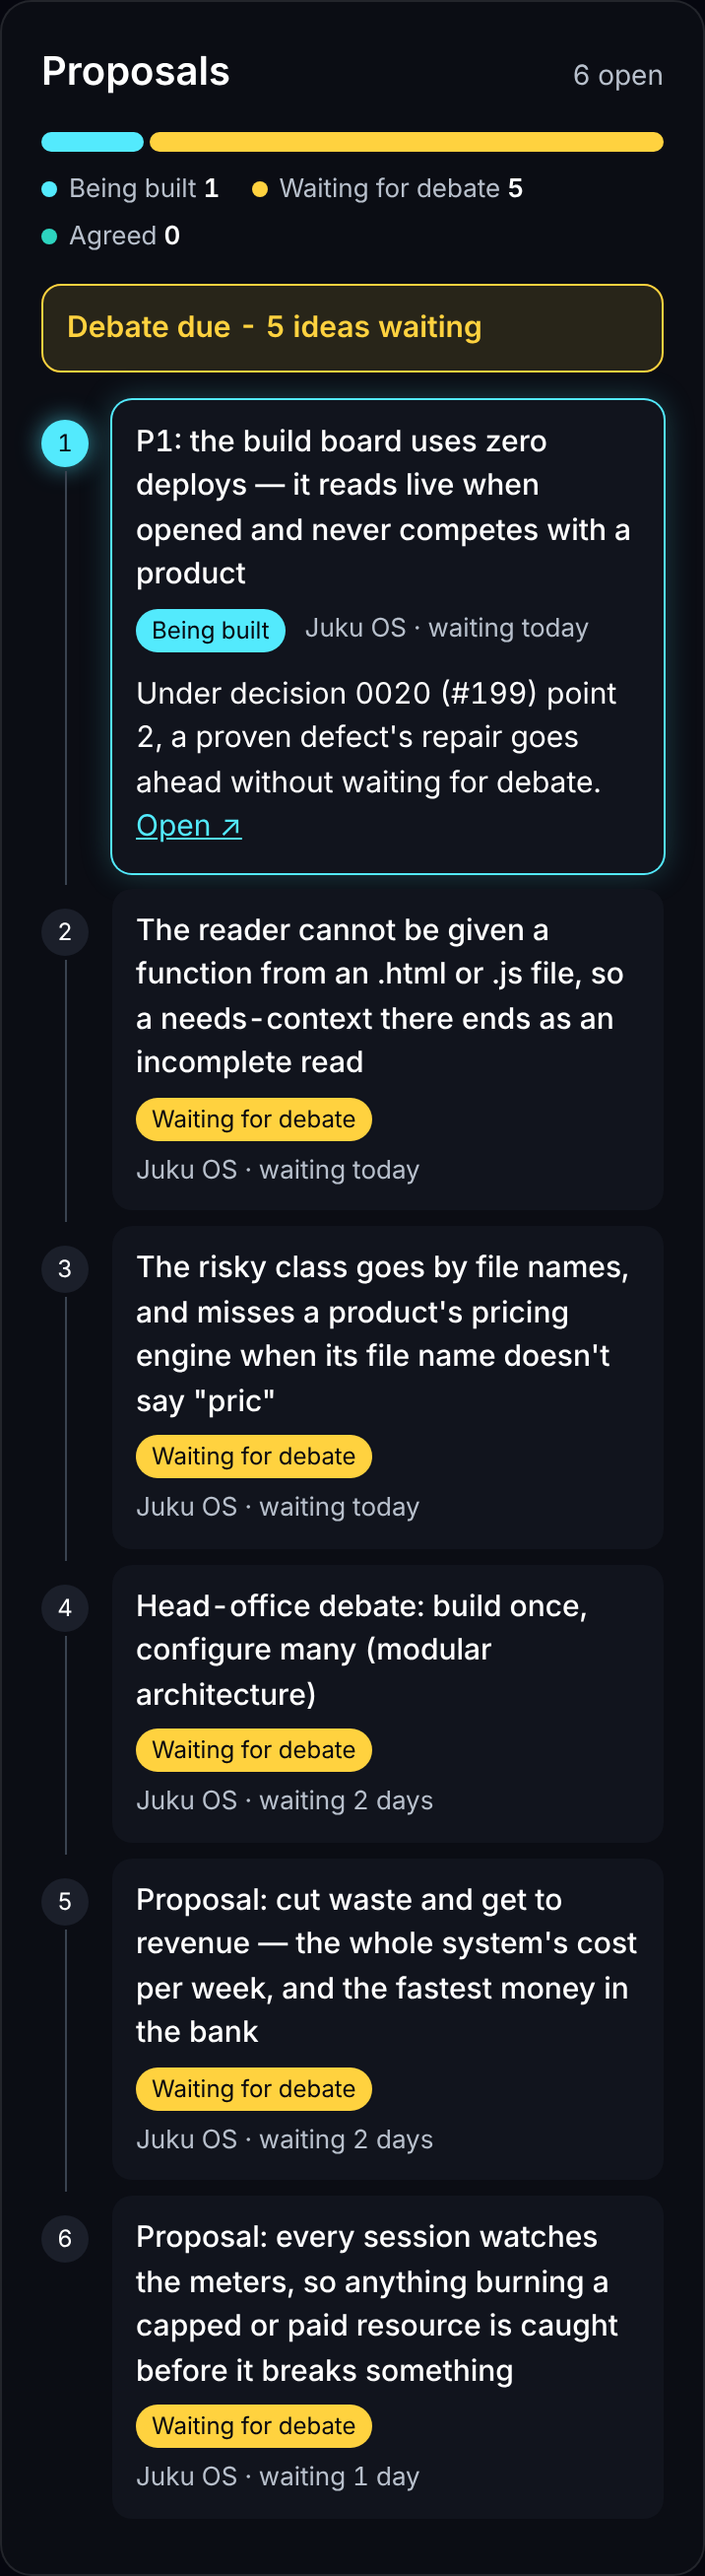
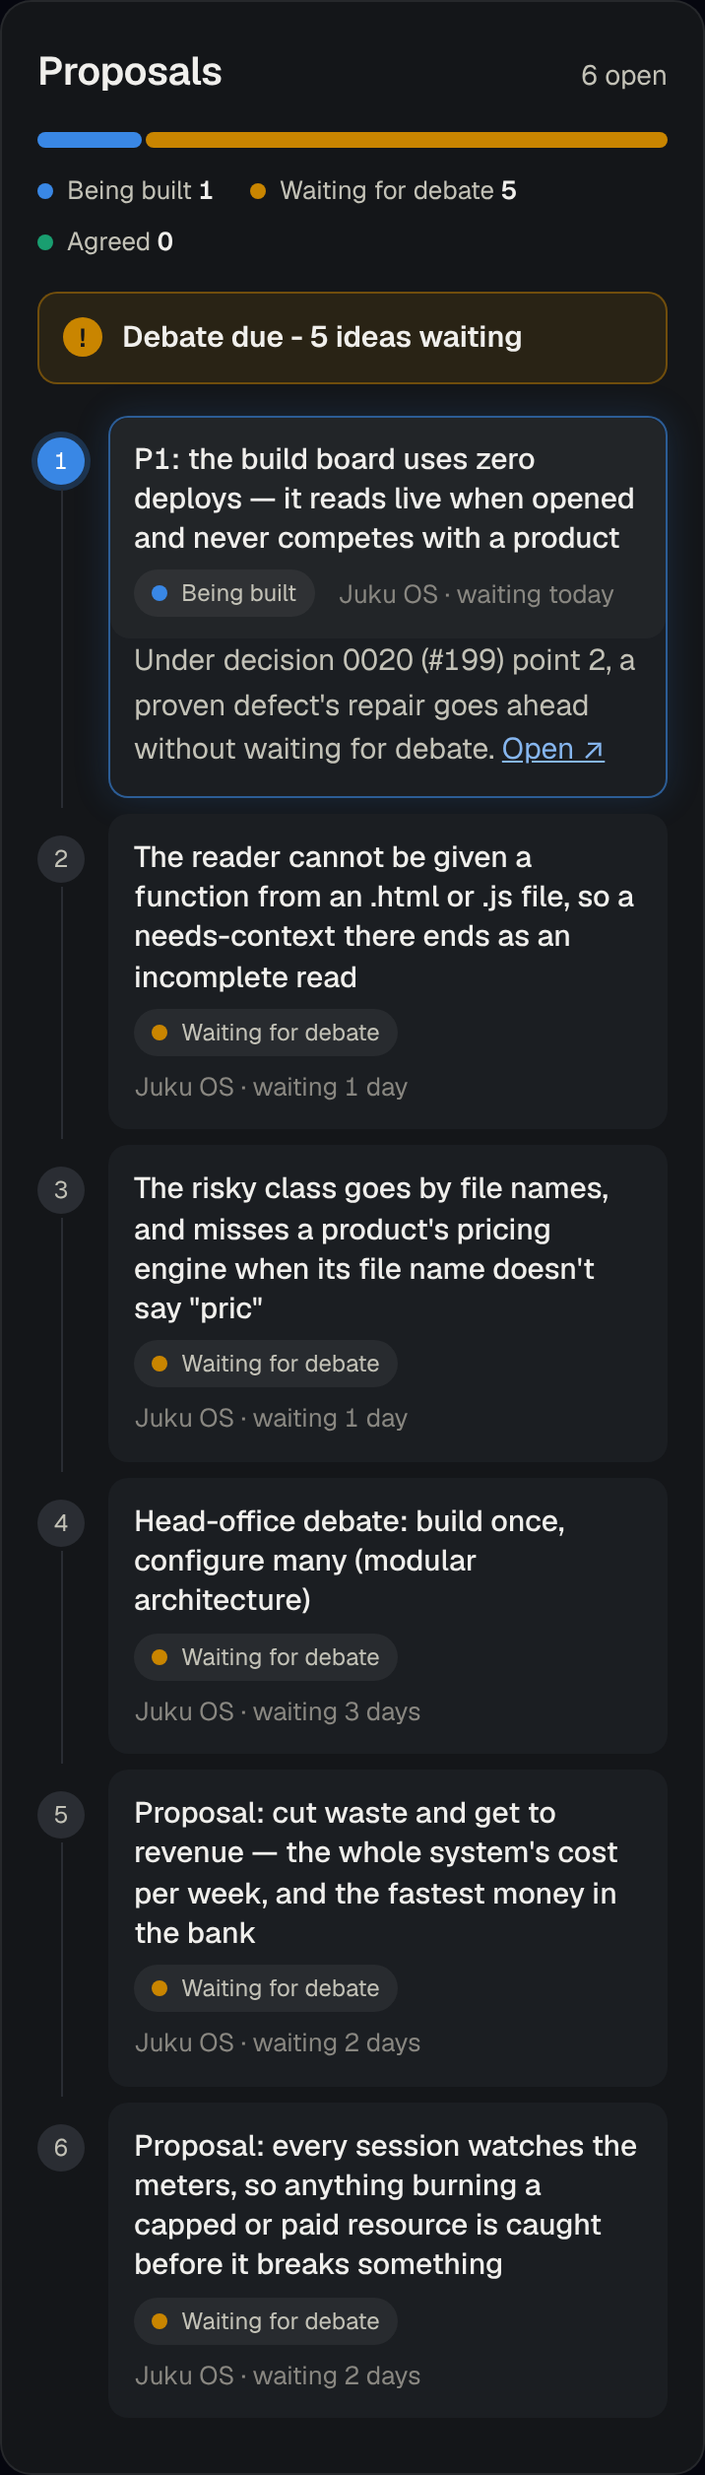
The proposals card in one dark scheme, adaptive, on his second look (#222)
His look, 16 October 2026: the layout kept, the colours started fresh. Neutral near-black surfaces and ink, the stages in one validated dark set (blue being built, amber waiting, teal agreed), blue the one high-contrast accent, a stage's colour on its dot and bar alone; on a wide screen a row's stage and age share its title's line. 6.3 KB with its styles. The library picture re-rendered at phone width, and the spec page says the new scheme.

Claude-Session: https://claude.ai/code/session_01FNSZakCVVhAZbUCDKCod5B

diff --git a/board/build.py b/board/build.py
@@ -383,35 +383,53 @@ def rulebook_row(rb):
 
 # THE PROPOSALS CARD (his approval, 15 October 2026, #222: Option D). One card above the
 # project pages: every open `proposal` issue here, and every product's `proposed` item, in
-# one queue (decision 0020), on the same live read. Pure HTML and CSS, cyan, yellow and teal
-# alone, under 10 KB; it replaces decision 0012's folded list of suggested ideas.
+# one queue (decision 0020), on the same live read. Pure HTML and CSS, under 10 KB; it replaces decision 0012's folded list of suggested ideas.
 ISSUE_LINK = re.compile(r"^https://github\.com/Adonis80/how-we-build/issues/[1-9][0-9]*$")
 STAGES = (("b", "Being built"), ("w", "Waiting for debate"), ("a", "Agreed"))
 # An open pull request that says it builds, closes, fixes, resolves or implements #N; one that only cites it does not.
 BUILDS = re.compile(r"\b(?:builds|closes|fixes|resolves|implements)\s+\[?#([1-9][0-9]*)\b", re.I)
 SHOWN = 6
 DUE_COUNT, DUE_DAYS = 3, 7                              # decision 0020's trigger (trial thresholds)
-PQ_CSS = (".pq{--b:#53eafd;--w:#ffd23f;--a:#2dd4bf;background:#0b0d14;border:1px solid rgba(255,255,255,.1);"
-          "border-radius:16px;padding:20px;margin:0 0 16px;color:#fff}.pq-h{display:flex;justify-content:space-between;"
-          "align-items:baseline}.pq h2{margin:0;font-size:20px;font-weight:600}.pq-c{color:#b8c0cc;font-size:14px}"
-          ".pq-bar{display:flex;gap:3px;height:10px;margin:16px 0 10px}.pq-bar i{border-radius:5px}.pq-bar .e{flex:1;"
-          "background:#3a4350}.pq .b{--s:var(--b)}.pq .w{--s:var(--w)}.pq .a{--s:var(--a)}.pq-bar i,.pq-k li::before{background:var(--s)}"
-          ".pq-k{display:flex;flex-wrap:wrap;gap:4px 16px;list-style:none;margin:0;padding:0;font-size:13px;color:#b8c0cc}"
-          ".pq-k li::before{content:\"\";display:inline-block;width:8px;height:8px;border-radius:50%;margin-right:6px}"
-          ".pq-k b{color:#fff;font-weight:600}.pq-due{margin:14px 0 0;border-radius:10px;background:rgba(255,210,63,.12);"
-          "border:1px solid var(--w)}.pq-due summary{padding:10px 12px;color:var(--w);font-weight:600}.pq-due p{margin:0;"
-          "padding:0 12px 12px;color:#fff}.pq-l{list-style:none;margin:14px 0 0;padding:0;counter-reset:n var(--n0,0)}"
-          ".pq-r{position:relative;padding-left:36px;counter-increment:n}.pq-r::before{content:counter(n);position:absolute;"
-          "left:0;top:10px;width:24px;height:24px;border-radius:50%;display:grid;place-items:center;font-size:12px;"
-          "background:#1b1f2a;color:#fff}.pq-r::after{content:\"\";position:absolute;left:11.5px;top:36px;bottom:-6px;"
-          "width:1px;background:#3a4350}.pq-r:last-child::after{display:none}.pq-r details{border-radius:10px;"
-          "background:#11141d;margin:0 0 8px}.pq-r summary{display:flex;flex-wrap:wrap;align-items:center;gap:6px 10px;"
-          "padding:10px 12px;min-height:44px}.pq-t{flex:1 1 100%;font-weight:500}.pq-p{font-size:12px;padding:2px 8px;"
-          "border-radius:999px;color:#06070f;background:var(--s)}.pq-a{font-size:13px;color:#b8c0cc}.pq-r p{margin:0;"
-          "padding:0 12px 12px;color:#fff}.pq-r a{color:var(--b)}.p1::before{background:var(--b);color:#06070f;"
-          "box-shadow:0 0 12px rgba(83,234,253,.6)}.p1 details{box-shadow:0 0 0 1px var(--b),0 0 16px rgba(83,234,253,.25)}"
-          ".pq-more>summary{color:var(--b);padding:8px 0 0 36px;font-size:14px}.pq-0{color:#b8c0cc;margin:0}"
-          ".pq summary{cursor:pointer;list-style:none}.pq summary::-webkit-details-marker{display:none}")
+PQ_CSS = (
+    # His second look (16 October 2026): the layout kept, the colours started fresh as one dark
+    # scheme. Neutral near-black surfaces and neutral ink; three stage colours from one validated
+    # dark set (blue, amber, teal: lightness, chroma, colour-blind separation and contrast checked);
+    # one blue the high-contrast accent; text never in a stage colour. Wider screens put each
+    # row's stage and age on its title's line.
+    ".pq{--bg:#141619;--row:#1b1e22;--line:rgba(255,255,255,.08);--ink:#f0efec;--ink2:#c3c2b7;--ink3:#898781;"
+    "--b:#3987e5;--w:#c98500;--a:#199e70;--hi:#86b6ef;background:var(--bg);border:1px solid var(--line);"
+    "border-radius:16px;padding:20px 18px;margin:0 0 16px;color:var(--ink)}"
+    ".pq-h{display:flex;justify-content:space-between;align-items:baseline;gap:12px}.pq h2{margin:0;font-size:20px;"
+    "font-weight:600;letter-spacing:-.01em}.pq-c{color:var(--ink2);font-size:14px}"
+    ".pq-bar{display:flex;gap:2px;height:8px;margin:16px 0 12px}.pq-bar i{border-radius:4px}.pq-bar .e{flex:1;"
+    "background:#2a2d33}.pq .b{--s:var(--b)}.pq .w{--s:var(--w)}.pq .a{--s:var(--a)}"
+    ".pq-bar i,.pq-k li::before,.pq-p::before{background:var(--s)}"
+    ".pq-k{display:flex;flex-wrap:wrap;gap:6px 18px;list-style:none;margin:0;padding:0;font-size:13px;color:var(--ink2)}"
+    ".pq-k li::before,.pq-p::before{content:\"\";display:inline-block;width:8px;height:8px;border-radius:50%;margin-right:7px}"
+    ".pq-k b{color:var(--ink);font-weight:600}"
+    ".pq-due{margin:16px 0 0;border-radius:10px;background:rgba(201,133,0,.12);border:1px solid rgba(201,133,0,.45)}"
+    ".pq-due summary{display:flex;align-items:center;gap:10px;padding:11px 12px;color:var(--ink);font-weight:600}"
+    ".pq-due summary::before{content:\"!\";display:grid;place-items:center;flex:none;width:20px;height:20px;"
+    "border-radius:50%;background:var(--w);color:#141619;font-size:13px;font-weight:700}"
+    ".pq-due p{margin:0;padding:0 12px 12px 42px;color:var(--ink2)}"
+    ".pq-l{list-style:none;margin:16px 0 0;padding:0;counter-reset:n var(--n0,0)}"
+    ".pq-r{position:relative;padding-left:36px;counter-increment:n}.pq-r::before{content:counter(n);position:absolute;"
+    "left:0;top:11px;width:24px;height:24px;border-radius:50%;display:grid;place-items:center;font-size:12px;"
+    "background:#2a2d33;color:var(--ink2)}.pq-r::after{content:\"\";position:absolute;left:11.5px;top:37px;"
+    "bottom:-5px;width:1px;background:#2a2d33}.pq-r:last-child::after{display:none}"
+    ".pq-r details{border-radius:10px;background:var(--row);border:1px solid transparent;margin:0 0 8px}"
+    ".pq-r summary{display:flex;flex-wrap:wrap;align-items:center;gap:6px 12px;padding:11px 12px;min-height:44px}"
+    ".pq-r summary:hover{background:rgba(255,255,255,.03);border-radius:10px}"
+    ".pq-t{flex:1 1 100%;font-weight:500;line-height:1.35}"
+    ".pq-p{display:inline-flex;align-items:center;font-size:12px;padding:3px 9px;border-radius:999px;"
+    "background:rgba(255,255,255,.06);color:var(--ink2)}.pq-a{font-size:13px;color:var(--ink3)}"
+    ".pq-r p{margin:0;padding:0 12px 12px;color:var(--ink2);line-height:1.5}.pq-r a{color:var(--hi)}"
+    ".p1::before{background:var(--b);color:#fff;box-shadow:0 0 0 3px rgba(57,135,229,.25)}"
+    ".p1 details{border-color:rgba(57,135,229,.6);box-shadow:0 0 18px rgba(57,135,229,.18)}"
+    ".pq-more>summary{color:var(--hi);padding:8px 0 0 36px;font-size:14px}.pq-0{color:var(--ink2);margin:0}"
+    ".pq summary{cursor:pointer;list-style:none}.pq summary::-webkit-details-marker{display:none}"
+    ".pq summary:focus-visible{outline:2px solid var(--hi);outline-offset:2px;border-radius:10px}"
+    "@media (min-width:640px){.pq{padding:24px 24px}.pq-t{flex:1 1 auto}.pq-a{min-width:9em;text-align:right}}")
 
 
 def level_of(text):

diff --git a/library/board-proposals-card.md b/library/board-proposals-card.md
@@ -2,13 +2,13 @@
 
 Scope: the build board's proposals card. Open when: changing the proposals card, or checking it against what he approved.
 
-**Approved (his ruling, 15 October 2026, [#222](https://github.com/Adonis80/how-we-build/issues/222#issuecomment-6192725037): Option D).** One card above the product timelines, on the board's live read, so it adds no deploy. Built in `board/build.py` (`proposals_card`), held by its selftest. The picture below is the real card rendered from that day's open proposals at phone width (390 px); it shows this repository's issues only, since a product's ideas are private and this repository is public. It is accepted when he approves it by looking.
+**Approved (his ruling, 15 October 2026, [#222](https://github.com/Adonis80/how-we-build/issues/222#issuecomment-6192725037): Option D).** One card above the product timelines, on the board's live read, so it adds no deploy. Built in `board/build.py` (`proposals_card`), held by its selftest. The picture below is the real card rendered from the open proposals at phone width (390 px); it shows this repository's issues only, since a product's ideas are private and this repository is public. It is accepted when he approves it by looking.
 
 ![The proposals card at phone width](board-proposals-card.png)
 
 **The screen spec.**
 - Pure HTML and CSS: no image, no chart library, no script for looks; under 10 KB with its styles (the selftest holds it with ten rows).
-- Dark and high contrast, in cyan, yellow and teal alone (his ruling): near-black surfaces, white text, light-grey waiting times.
+- One dark scheme, cohesive, with high-contrast moments (his second look, 16 October 2026, replacing cyan, yellow and teal: *"start fresh using dark mode and an adaptive design that works on mobile and on desktop"*): neutral near-black surfaces and neutral ink; the stages blue (being built), amber (waiting for debate) and teal (agreed), one validated dark set (lightness, chroma, colour-blind separation and contrast checked); blue the one accent, on the P1 row, the links and Show more; a stage's colour on its dot and bar alone, never its text. On a wide screen each row's stage and age sit on its title's line when it fits.
 - Top: "Proposals" and the open count, then a stage bar sized by count: Being built (cyan), Waiting for debate (yellow), Agreed (teal), each labelled with its count.
 - A yellow "Debate due - N ideas waiting" banner when decision 0020's trigger is met (3 proposals waiting, or one waiting 7 days); the rule only behind its tap.
 - A numbered spine down the left; the P1 node and card glow cyan. Each row: the title, a stage pill and the time waited; a tap opens its one plain sentence.
